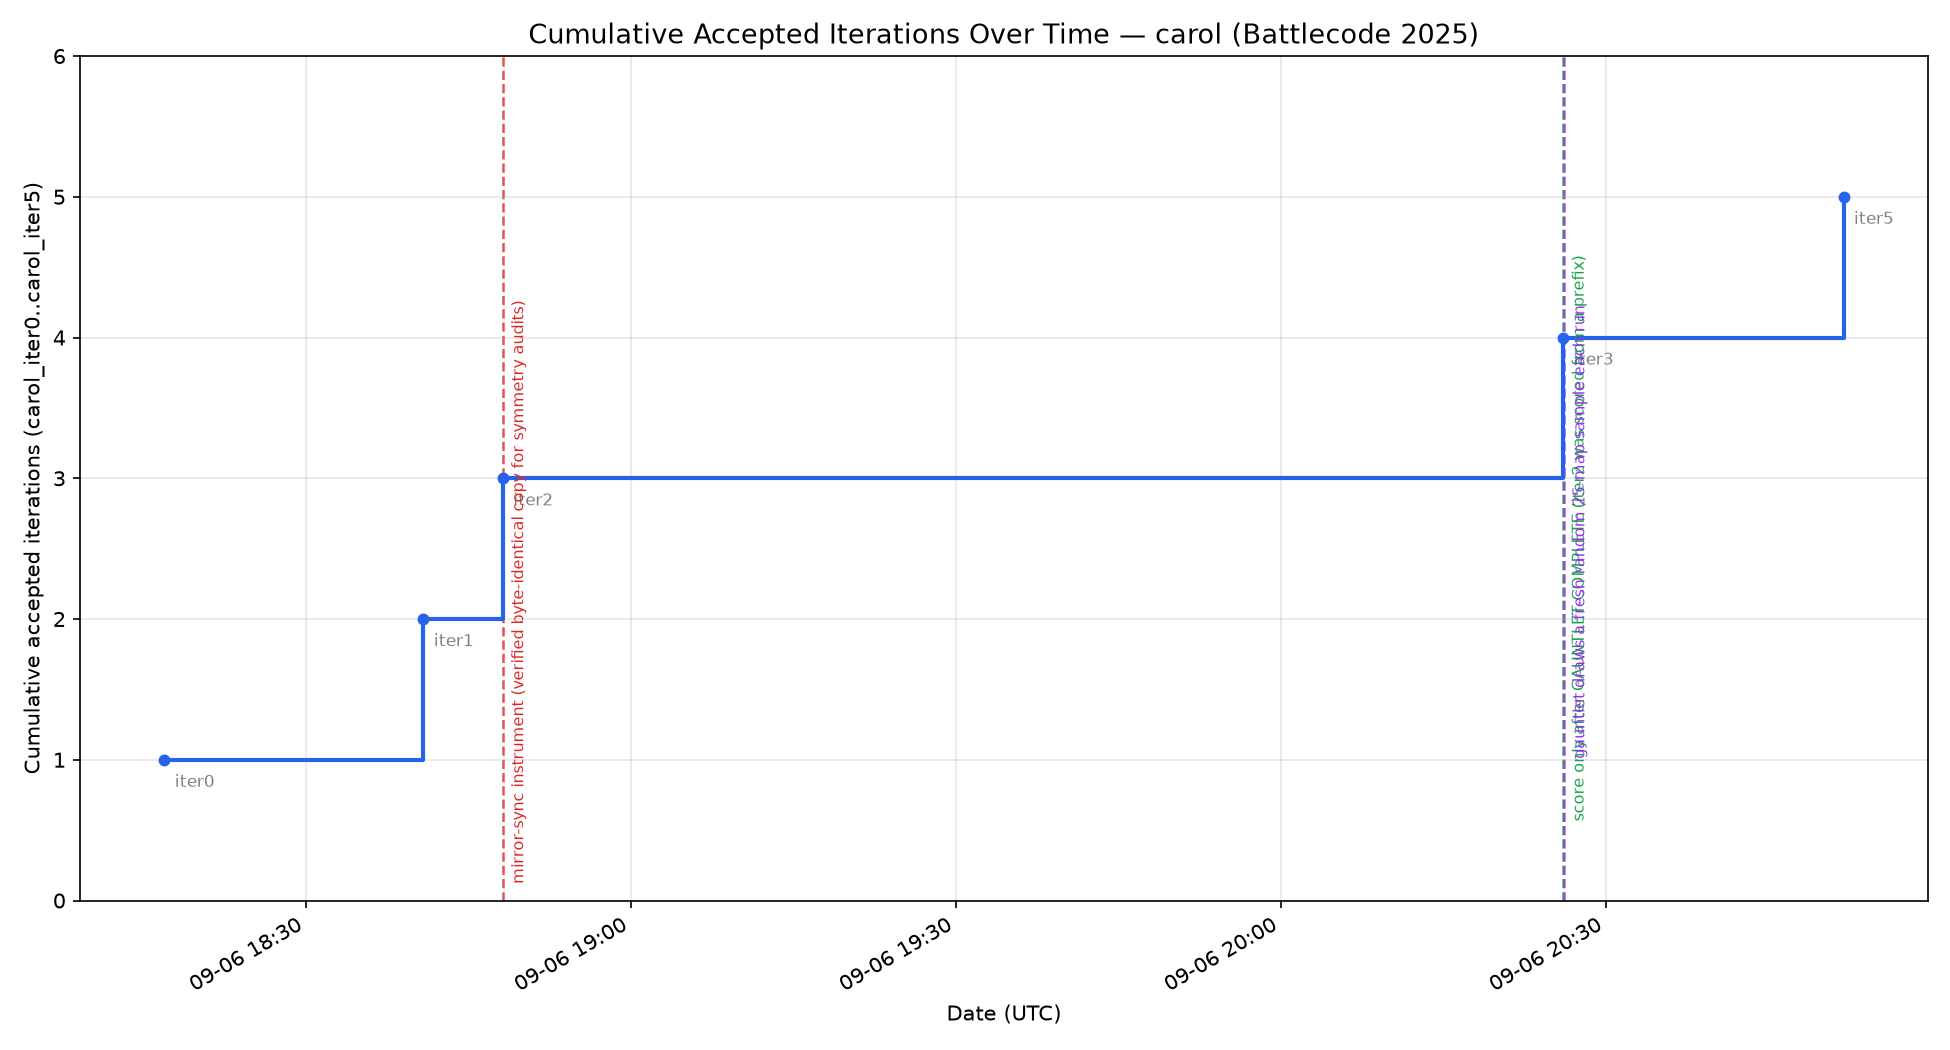
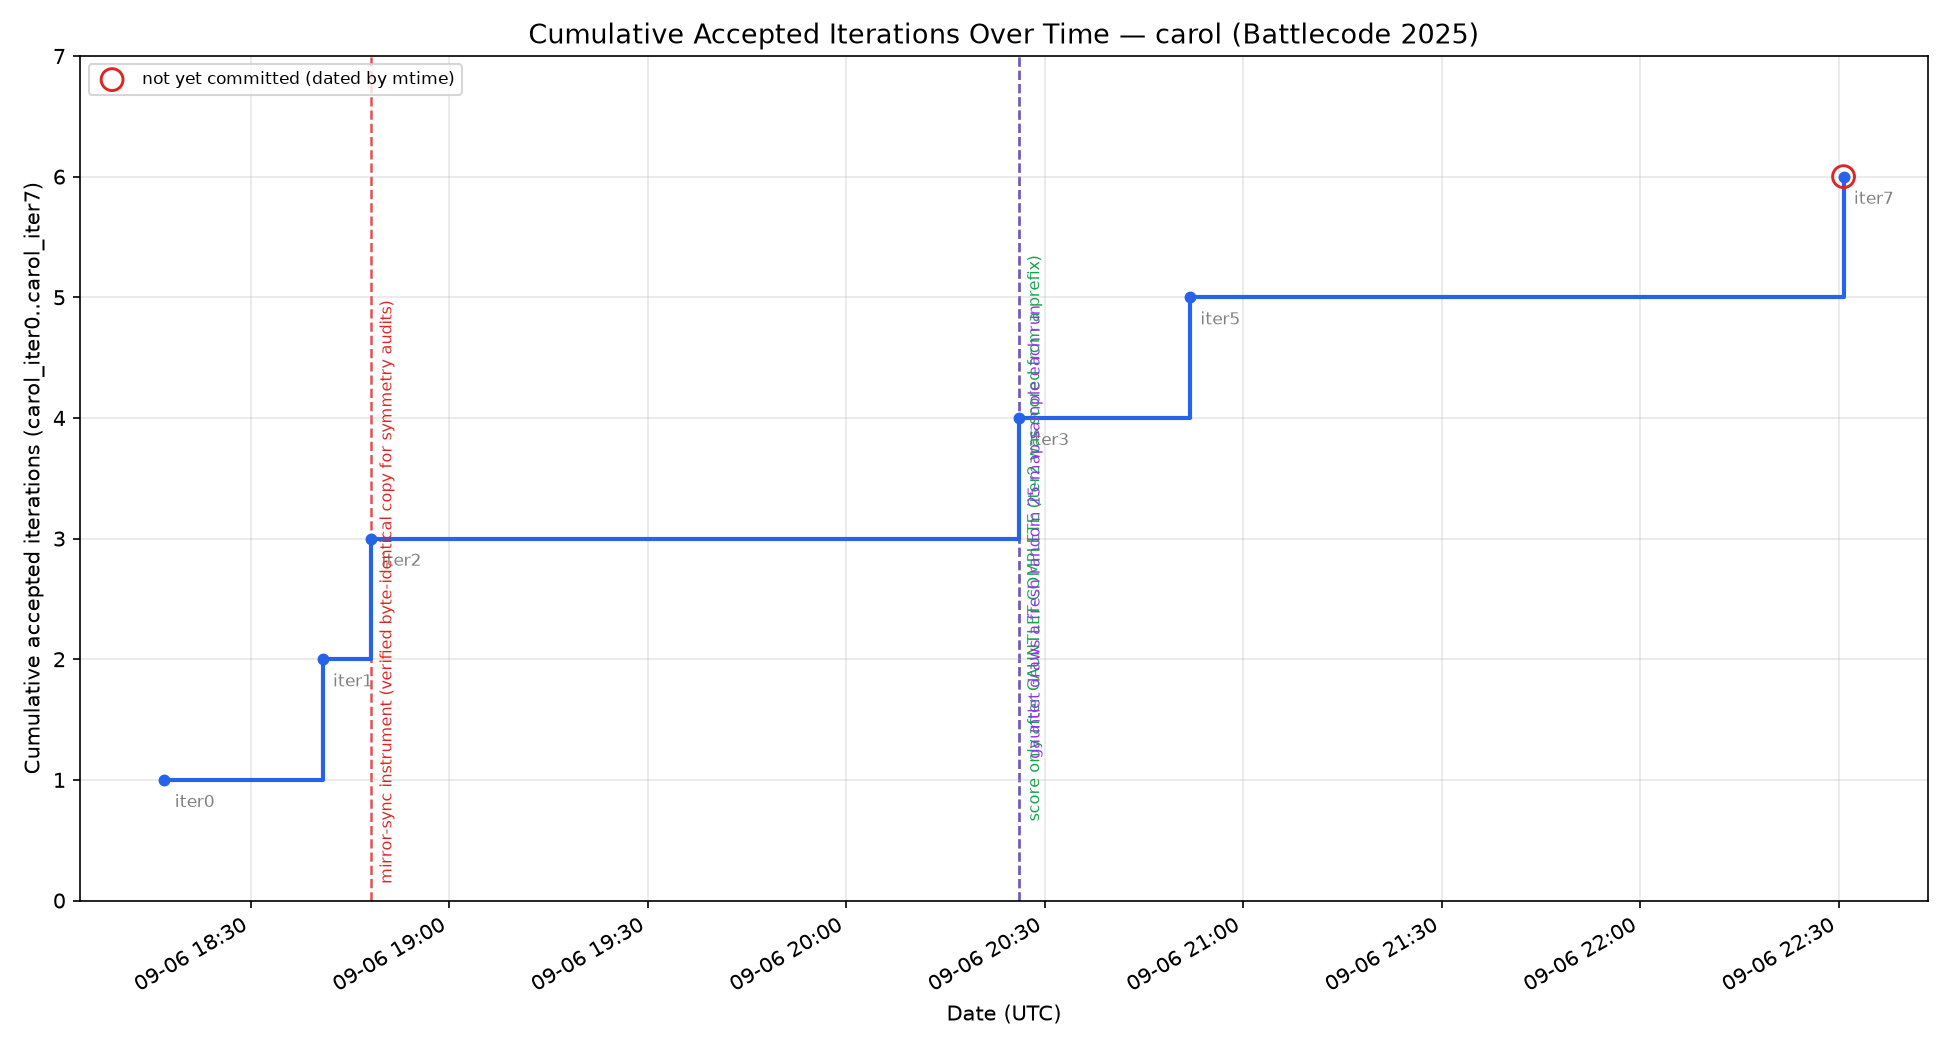
carol: ACCEPT iteration 7 (self-cancelling chip reserve) -- snapshot carol_iter7
Control arm (carol_iter5 vs carol_rush, same 20 pinned maps) came in at
37/40 with an identical loss set to the candidate's 37/40. The one
difference is DefaultSmall A: the baseline dies at round 69, the candidate
survives to 155. Exactly the middle row of the decision rule committed
before the control reported, and the named falsifier did not fire.

Value recorded honestly: iteration 7 converts ZERO games and its measured
win value is 0. Accepted on grounds set out in advance -- its downside is
identically zero rather than merely small (stag never left 0 across 40 h2h
games and 19 mirror-equivalent maps, so it cannot fire while income is
positive), it demonstrably works when it fires, and it removes a permanent
silent total production stop. Not claimed: that it made carol stronger. On
160 games it did not.

Post-accept routine complete: snapshot verified identical apart from the
package line, representative replay archived, roster history extended and
relabelled to the build that actually played (the tool derived the wrong
name again), both charts redrawn. Standing checks all pass -- 0 exceptions,
bytecode 14.7%/2.6% with no overruns, play-symmetry 9 maps to 10.

Also adds the no-paint-tower hard loss condition to RULES.md.

Claude-Session: https://claude.ai/code/session_01AaaGzxRUmH5UDEVerTki8y

diff --git a/agents/carol/src/carol_iter7/RobotPlayer.java b/agents/carol/src/carol_iter7/RobotPlayer.java
@@ -1,4 +1,4 @@
-package carol;
+package carol_iter7;
 
 import battlecode.common.*;
 

diff --git a/agents/carol/TRAINING_LOG.md b/agents/carol/TRAINING_LOG.md
@@ -2310,3 +2310,43 @@ and materially extends one. Under the decision rule committed above that is the 
 **accept, with value recorded as ~0**. Holding the formal verdict until the remaining 15 games
 land, per the no-scoring-a-prefix rule — though note the DefaultSmall comparison itself is a
 single completed paired game and cannot change.
+
+### Iteration 7 RESULT — ACCEPTED (with its value recorded honestly as ~0 games)
+
+Control `20260906-222533` (`carol_iter5` vs `carol_rush`, the same 20 pinned maps) came in at
+**37/40 = 92.5%**, identical to the candidate, with an **identical loss set**:
+
+| | control (`carol_iter5`) | candidate (iteration 7) |
+|---|---|---|
+| vs `carol_rush` | 37/40 | 37/40 |
+| DefaultSmall A | **LOSS r69** | **LOSS r155** |
+| Dominoes A | LOSS r2000 | LOSS r2000 |
+| Dominoes B | LOSS r2000 | LOSS r2000 |
+
+This is exactly the middle row of the decision rule committed **before** the control reported,
+and the named falsifier did not fire (the control's DefaultSmall A is r69, not r155, so the
+extension is caused by the disarm and nothing else).
+
+**DECISION: ACCEPT.** Snapshot `src/carol_iter7` (numbers 4 and 6 stay unused — both rejected,
+so the gap is self-documenting). Recorded plainly so no future reader misreads it:
+
+> **Iteration 7 converts zero games. Its measured win value is 0.**
+
+It is accepted on the grounds set out in advance, not discovered afterwards:
+1. **Its downside is identically zero, measured rather than argued.** `stag` never left 0 in
+   any of the 40 h2h games or the 19 mirror-equivalent maps, so it provably cannot fire while
+   income is positive. It is not "low risk"; it is inert outside the failure state.
+2. **When it fires it demonstrably works**, isolated on identical ground: r69 -> r155, three
+   soldiers built where the baseline built none.
+3. It removes a **permanent, silent, total** production stop — the class of failure the 2026
+   audit found was worth more than every headline feature.
+
+**What I am NOT claiming**: that it made carol stronger. On 160 games of evidence it did not.
+
+**Post-accept routine**: snapshot created and verified identical apart from the package line;
+`replays/iter07_carol_rush_DefaultSmall_A.bc25` archived (the game the mechanism is visible in);
+`progress/vs_old_bots_history.csv` extended with the `carol_rush` 37/40 point, **relabelled to
+`carol_iter7`** because the tool again derived the wrong build name; both charts redrawn.
+
+**Standing checks**: exceptions 0; bytecode robots 14.7% / towers 2.6%, 0 overruns, 0
+near-misses; play-symmetry PASS (9 maps favour A, 10 favour B); frozen-treasury gate PASS.
